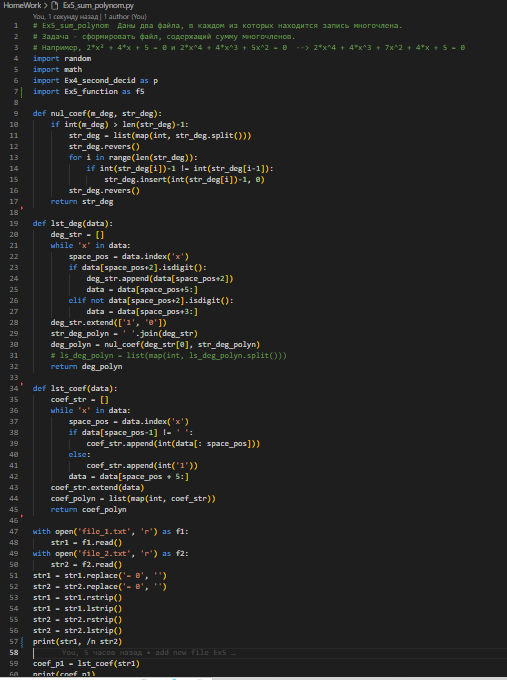
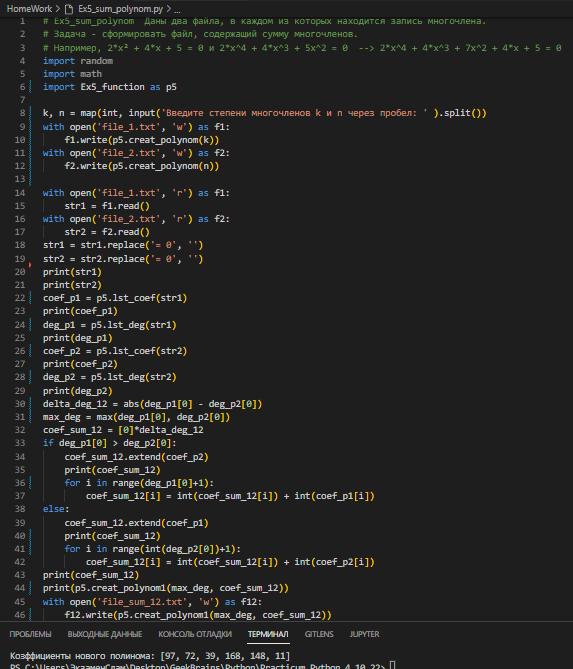
update Ex5

Changed region(s): [[0.0, 0.0, 1.0, 1.0]]

diff --git a/HomeWork/Ex5_function.py b/HomeWork/Ex5_function.py
@@ -1,6 +1,70 @@
 # НАБОР ФУНКЦИЙ к ЗАДАЧЕ:  Ex5_sum_polynom  Даны два файла, в каждом из которых находится запись многочлена. 
 # Задача - сформировать файл, содержащий сумму многочленов.
-# Например, 2*x² + 4*x + 5 = 0 и 2*x^4 + 4*x^3 + 5x^2 = 0  --> 2*x^4 + 4*x^3 + 7x^2 + 4*x + 5 = 0
+
+import random
+
+def creat_p_if_deg1(coeff):
+    polynom_string = ''
+    if coeff[0] > 1 and coeff[1] > 0:
+        polynom_string = str(coeff[0]) + \
+            'x + ' + str(coeff[1]) + ' = 0'
+    elif coeff[0] > 1 and coeff[1] == 0:
+        polynom_string = str(coeff[0]) + 'x = 0'
+    elif coeff[0] == 1 and coeff[1] > 0:
+        polynom_string = 'x + ' + str(coeff[1]) + ' = 0'
+    elif (coeff[0], coeff[1]) == (1, 0):
+        polynom_string = 'x = 0'
+    return polynom_string
+
+def p_ended(deg, coeff):
+    polynom_ended = ''
+    if coeff[deg - 1] > 1:
+        polynom_ended += '+ ' + \
+        str(coeff[deg - 1]) + 'x + ' + \
+        str(coeff[deg]) + ' = 0'
+    elif (coeff[deg - 1], coeff[deg]) == (1, 0):
+        polynom_ended += '+ x = 0'
+    elif (coeff[deg - 1], coeff[deg]) == (0, 0):
+        polynom_ended += ' = 0'
+    elif coeff[deg - 1] == 0 and coeff[deg] != 0:
+        polynom_ended += '+ ' + str(coeff[deg]) + ' = 0'
+    elif (coeff[deg - 1], coeff[deg]) == (1, 1):
+        polynom_ended += '+ x + ' + \
+        str(coeff[deg]) + ' = 0'
+    return polynom_ended
+
+def creat_polynom(deg):
+    coeff = [random.randint(0, 100) for i in range(deg + 1)]
+    print(f'Коэффициенты полинома: {coeff}, если первый коэф. = "0", \n \
+        он будет заменен другим случ. числом')
+    if coeff[0] == 0:
+        coeff[0] = random.randint(1, 100)
+    if deg > 1:
+        if coeff[0] > 1:
+            polynom_string = str(coeff[0])+'x^' + str(deg) + ' '
+        elif coeff[0] == 1:
+            polynom_string = 'x^' + str(deg) + ' '
+        count = deg - 1
+        while count > 1:
+            if coeff[deg - count] != 0:
+                if coeff[deg - count] > 1:
+                    polynom_string += '+ ' + \
+                        str(coeff[deg - count]) + \
+                        'x^' + str(count) + ' '
+                elif coeff[deg - count] == 1:
+                    polynom_string += '+ ' + \
+                        'x^' + str(count) + ' '
+            count -= 1
+        if count == 1:
+            polynom_string += p_ended(1, [coeff[-2], coeff[-1]])
+    elif deg == 1:
+        polynom_string = creat_p_if_deg1(coeff)
+    elif deg < 1:
+        print('Степень введена некорректно!')
+        return
+    return polynom_string
+
+
 def nul_coef(m_deg, str_deg):
     if int(m_deg) > len(str_deg)-1:
         str_deg = list(map(int, str_deg.split()))
@@ -11,20 +75,19 @@ def nul_coef(m_deg, str_deg):
         str_deg.revers()
     return str_deg
 
-                
+
 def lst_deg(data):
     deg_str = []
-    while 'x' in data:                                
+    while 'x' in data:
         space_pos = data.index('x')
         if data[space_pos+2].isdigit():
             deg_str.append(data[space_pos+2])
             data = data[space_pos+5:]
-        elif not data[space_pos+2].isdigit():  
+        elif not data[space_pos+2].isdigit():
             data = data[space_pos+3:]
     deg_str.extend(['1', '0'])
-    str_deg_polyn = ' '.join(deg_str)
-    deg_polyn = nul_coef(deg_str[0], str_deg_polyn)
-    # ls_deg_polyn = list(map(int, ls_deg_polyn.split()))
+    deg_polyn = nul_coef(deg_str[0], deg_str)
+    deg_polyn = list(map(int, deg_polyn))
     return deg_polyn
 
 
@@ -36,7 +99,77 @@ def lst_coef(data):
             coef_str.append(int(data[: space_pos]))
         else:
             coef_str.append(int('1'))
+        if data[space_pos+1] == ' ':
+            coef_str.append(int(data[space_pos+3:]))
         data = data[space_pos + 5:]
-    coef_str.extend(data)
-    coef_polyn = list(map(int, coef_str))
-    return coef_polyn
+    # coef_polyn = list(map(int, coef_str))
+    return coef_str
+
+
+def creat_polynom1(deg, coeff):
+    print(f'Коэффициенты нового полинома: {coeff}')
+    if coeff[0] == 0:
+        coeff[0] = random.randint(1, 100)
+    if deg > 1:
+        if coeff[0] > 1:
+            polynom_string = str(coeff[0])+'x^' + str(deg) + ' '
+        elif coeff[0] == 1:
+            polynom_string = 'x^' + str(deg) + ' '
+        count = deg - 1
+        while count > 1:
+            if coeff[deg - count] != 0:
+                if coeff[deg - count] > 1:
+                    polynom_string += '+ ' + \
+                        str(coeff[deg - count]) + \
+                        'x^' + str(count) + ' '
+                elif coeff[deg - count] == 1:
+                    polynom_string += '+ ' + \
+                        'x^' + str(count) + ' '
+            count -= 1
+        if count == 1:
+            polynom_string += p_ended(1, [coeff[-2], coeff[-1]])
+    elif deg == 1:
+        polynom_string = creat_p_if_deg1(coeff)
+    return polynom_string
+
+
+
+
+# def nul_coef(m_deg, str_deg):
+#     if int(m_deg) > len(str_deg)-1:
+#         str_deg = list(map(int, str_deg.split()))
+#         str_deg.revers()
+#         for i in range(len(str_deg)):
+#             if int(str_deg[i])-1 != int(str_deg[i-1]):
+#                 str_deg.insert(int(str_deg[i])-1, 0)
+#         str_deg.revers()
+#     return str_deg
+                
+# def lst_deg(data):
+#     deg_str = []
+#     while 'x' in data:                                
+#         space_pos = data.index('x')
+#         if data[space_pos+2].isdigit():
+#             deg_str.append(data[space_pos+2])
+#             data = data[space_pos+5:]
+#         elif not data[space_pos+2].isdigit():  
+#             data = data[space_pos+3:]
+#     print(data)
+#     deg_str.extend(['1', '0'])
+#     str_deg_polyn = ' '.join(deg_str)
+#     deg_polyn = nul_coef(deg_str[0], str_deg_polyn)
+#     ls_deg_polyn = list(map(int, ls_deg_polyn.split()))
+#     return deg_polyn
+
+# def lst_coef(data):
+#     coef_str = []
+#     while 'x' in data:
+#         space_pos = data.index('x')
+#         if data[space_pos-1] != ' ':
+#             coef_str.append(int(data[: space_pos]))
+#         else:
+#             coef_str.append(int('1'))
+#         data = data[space_pos + 5:]
+#     coef_str.extend(data)
+#     coef_polyn = list(map(int, coef_str))
+#     return coef_polyn

diff --git a/HomeWork/Ex5_sum_polynom.py b/HomeWork/Ex5_sum_polynom.py
@@ -3,84 +3,47 @@
 # Например, 2*x² + 4*x + 5 = 0 и 2*x^4 + 4*x^3 + 5x^2 = 0  --> 2*x^4 + 4*x^3 + 7x^2 + 4*x + 5 = 0
 import random
 import math
-import Ex4_second_decid as p
+import Ex5_function as p5
 
-def nul_coef(m_deg, str_deg):
-    if int(m_deg) > len(str_deg)-1:
-        str_deg = list(map(int, str_deg.split()))
-        str_deg.revers()
-        for i in range(len(str_deg)):
-            if int(str_deg[i])-1 != int(str_deg[i-1]):
-                str_deg.insert(int(str_deg[i])-1, 0)
-        str_deg.revers()
-    return str_deg
-                
-def lst_deg(data):
-    deg_str = []
-    while 'x' in data:                                
-        space_pos = data.index('x')
-        if data[space_pos+2].isdigit():
-            deg_str.append(data[space_pos+2])
-            data = data[space_pos+5:]
-        elif not data[space_pos+2].isdigit():  
-            data = data[space_pos+3:]
-    deg_str.extend(['1', '0'])
-    str_deg_polyn = ' '.join(deg_str)
-    deg_polyn = nul_coef(deg_str[0], str_deg_polyn)
-    # ls_deg_polyn = list(map(int, ls_deg_polyn.split()))
-    return deg_polyn
-
-def lst_coef(data):
-    coef_str = []
-    while 'x' in data:
-        space_pos = data.index('x')
-        if data[space_pos-1] != ' ':
-            coef_str.append(int(data[: space_pos]))
-        else:
-            coef_str.append(int('1'))
-        data = data[space_pos + 5:]
-    coef_str.extend(data)
-    coef_polyn = list(map(int, coef_str))
-    return coef_polyn
-       
+k, n = map(int, input('Введите степени многочленов k и n через пробел: ' ).split())
+with open('file_1.txt', 'w') as f1:
+    f1.write(p5.creat_polynom(k))
+with open('file_2.txt', 'w') as f2:
+    f2.write(p5.creat_polynom(n))
+      
 with open('file_1.txt', 'r') as f1:
     str1 = f1.read()
 with open('file_2.txt', 'r') as f2:
     str2 = f2.read()
 str1 = str1.replace('= 0', '')
 str2 = str2.replace('= 0', '')
-str1 = str1.rstrip()
-str1 = str1.lstrip()
-str2 = str2.rstrip()
-str2 = str2.lstrip()
 print(str1)
 print(str2)
-coef_p1 = lst_coef(str1)
+coef_p1 = p5.lst_coef(str1)
 print(coef_p1)
-deg_p1 = lst_deg(str1)
+deg_p1 = p5.lst_deg(str1)
 print(deg_p1)
-coef_p2 = lst_coef(str2)
+coef_p2 = p5.lst_coef(str2)
 print(coef_p2)
-deg_p2 = lst_deg(str2)
+deg_p2 = p5.lst_deg(str2)
 print(deg_p2)
-delta_deg_12 = abs(int(deg_p1[0]) - int(deg_p2[0]))
-# print(delta_deg_12)
-max_deg = max(int(deg_p1[0]), int(deg_p2[0]))
-# print(max_deg)
+delta_deg_12 = abs(deg_p1[0] - deg_p2[0])
+max_deg = max(deg_p1[0], deg_p2[0])
 coef_sum_12 = [0]*delta_deg_12
 if deg_p1[0] > deg_p2[0]:
     coef_sum_12.extend(coef_p2)
     print(coef_sum_12)
-    for i in range(int(deg_p1[0])+1):
+    for i in range(deg_p1[0]+1):
         coef_sum_12[i] = int(coef_sum_12[i]) + int(coef_p1[i])
 else:
     coef_sum_12.extend(coef_p1)
-    for i in range(int(deg_p2[0]+1)):
+    print(coef_sum_12)
+    for i in range(int(deg_p2[0])+1):
         coef_sum_12[i] = int(coef_sum_12[i]) + int(coef_p2[i])
 print(coef_sum_12) 
-# print(p.creat_polynom(max_deg, coef_sum_12))
+print(p5.creat_polynom1(max_deg, coef_sum_12))
 with open('file_sum_12.txt', 'w') as f12:
-     f12.write(p.creat_polynom(max_deg, coef_sum_12))
+    f12.write(p5.creat_polynom1(max_deg, coef_sum_12))
    
 
 

diff --git a/HomeWork/Ex4_second_decid.py b/HomeWork/Ex4_second_decid.py
@@ -1,13 +1,13 @@
 # Ex4_coeff_polynom. Задана натуральная степень k. Сформировать случайным образом список коэффициентов # (значения от 0 до 100) многочлена и записать в файл многочлен степени k.
 import random
-import Ex4_second_decid as p
-def creat_polynom(deg):
+
+def creat_polynom(deg, coeff):
     # deg = int(input('Введите степень многочлена (натуральное число), k = ' ))
-    coeff = [random.randint(0, 101) for i in range(deg + 1)]
+    # coeff = [random.randint(0, 100) for i in range(deg + 1)]
     print(f'Коэффициенты полинома: {coeff}, если первый коэф. = "0", \n \
         он будет заменен другим случ. числом')
     if coeff[0] == 0:
-        coeff[0] = random.randint(1, 101)
+        coeff[0] = random.randint(1, 100)
     if deg > 1:
         if coeff[0] > 1:
             polynom_string = str(coeff[0])+'x^' + str(deg) + ' '
@@ -52,11 +52,11 @@ def creat_polynom(deg):
         return
     return polynom_string
 
-k, n = map(int, input('Введите степени многочленов k и n через пробел: ' ).split())
-with open('file_1.txt', 'w', encoding='utf-8') as f1:
-    f1.write(p.creat_polynom(k))
-with open('file_2.txt', 'w', encoding='utf-8') as f2:
-    f2.write(p.creat_polynom(n))
+# k, n = map(int, input('Введите степени многочленов k и n через пробел: ' ).split())
+# with open('file_1.txt', 'w', encoding='utf-8') as f1:
+#     f1.write(p.creat_polynom(k))
+# with open('file_2.txt', 'w', encoding='utf-8') as f2:
+#     f2.write(p.creat_polynom(n))
 
 
 

diff --git a/HomeWork/Ex5_new_polynom.py b/HomeWork/Ex5_new_polynom.py
@@ -3,7 +3,7 @@
 # Например, 2*x² + 4*x + 5 = 0 и 2*x^4 + 4*x^3 + 5x^2 = 0  --> 2*x^4 + 4*x^3 + 7x^2 + 4*x + 5 = 0
 import random
 import math
-import Ex4_second_decid as p
+
 import Ex5_function as f5
 
 with open('file_1.txt', 'r') as f1:
@@ -13,7 +13,7 @@ with open('file_2.txt', 'r') as f2:
 str1, str2 = str1.replace('= 0', ''), str2.replace('= 0', '')
 str1, str2 = str1.rstrip(), str2.rstrip()
 str1, str2 = str1.lstrip(), str2.lstrip()
-print(str1, /n str2)
+print(str1)
 
 coef_p1 = f5.lst_coef(str1)
 print(coef_p1)
